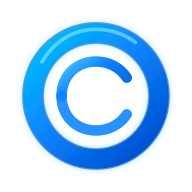
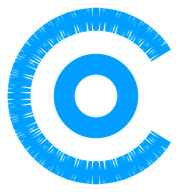
Unify Kontakti brand mark and prepare custom domain

diff --git a/cloud-ui-v12.html b/cloud-ui-v12.html
@@ -306,13 +306,13 @@ body.booting>*:not(#splash){visibility:hidden}
 <div class="login-page" id="splash">
  <main class="login-layout">
   <section class="login-hero" aria-labelledby="loginHeroTitle">
-   <div class="login-hero-brand"><img src="./assets/kontakti-mark.svg" alt=""><div><strong>Kontakti</strong><span>by Opero</span></div></div>
+   <div class="login-hero-brand"><img src="./assets/kontakti-mark.svg?v=20261015d" alt=""><div><strong>Kontakti</strong><span>by Opero</span></div></div>
    <h1 id="loginHeroTitle"><span data-login-i18n="heroTitle">Asiakkaat lähellä,</span><span data-login-i18n="heroSubtitle">seuraava yhteys selvillä.</span></h1>
    <p class="login-intro" data-login-i18n="intro">Asiakkaat, yhteydenotot ja seuraavat askeleet yhdessä paikassa.</p>
    <ul class="login-features"><li><span class="login-feature-icon"><svg viewBox="0 0 24 24" fill="none" stroke="currentColor" stroke-width="1.7" stroke-linecap="round" stroke-linejoin="round" aria-hidden="true"><path d="M8 3 5 5c-2 4 6 12 10 10l2-3-4-2-2 2-4-4 2-2z"/></svg></span><div><strong data-login-i18n="calls">Päivän yhteydenotot</strong><small data-login-i18n="callsSub">Tiedät, kenelle soittaa seuraavaksi</small></div></li><li><span class="login-feature-icon"><svg viewBox="0 0 24 24" fill="none" stroke="currentColor" stroke-width="1.7" stroke-linecap="round" stroke-linejoin="round" aria-hidden="true"><rect x="5" y="3" width="14" height="18" rx="2"/><path d="M9 8h6M9 12h6M9 16h3"/></svg></span><div><strong data-login-i18n="customers">Asiakkuuden koko kuva</strong><small data-login-i18n="customersSub">Muistiinpanot ja historia mukana</small></div></li><li><span class="login-feature-icon"><svg viewBox="0 0 24 24" fill="none" stroke="currentColor" stroke-width="1.7" stroke-linecap="round" stroke-linejoin="round" aria-hidden="true"><rect x="3" y="5" width="18" height="16" rx="2"/><path d="M7 3v4M17 3v4M3 11h18"/></svg></span><div><strong data-login-i18n="next">Huominen jo näkyvissä</strong><small data-login-i18n="nextSub">Valmistaudu seuraavaan päivään</small></div></li><li><span class="login-feature-icon"><svg viewBox="0 0 24 24" fill="none" stroke="currentColor" stroke-width="1.7" stroke-linecap="round" stroke-linejoin="round" aria-hidden="true"><path d="M6 3h12v18l-3-2-3 2-3-2-3 2zM9 7h6M9 11h6M9 15h3"/></svg></span><div><strong data-login-i18n="expenses">Ajot ja kulut</strong><small data-login-i18n="expensesSub">Kirjaa ajot, kulut ja kuitit samalla.</small></div></li></ul>
   </section>
   <section class="login-card" aria-labelledby="loginWelcome">
-   <header class="login-brand"><img src="./assets/kontakti-mark.svg" alt="Opero"><div><strong>Kontakti</strong><span>by Opero</span></div><div class="login-languages"><button type="button" data-login-lang="fi" aria-label="Suomi" aria-pressed="true"><svg viewBox="0 0 18 11" aria-hidden="true"><path fill="#fff" d="M0 0h18v11H0z"/><path fill="#003580" d="M5 0h3v11H5zM0 4h18v3H0z"/></svg></button><button type="button" data-login-lang="en" aria-label="English" aria-pressed="false"><svg viewBox="0 0 60 30" aria-hidden="true"><clipPath id="flagUK"><path d="M0 0h60v30H0z"/></clipPath><g clip-path="url(#flagUK)"><path fill="#012169" d="M0 0h60v30H0z"/><path stroke="#fff" stroke-width="6" d="m0 0 60 30m0-30L0 30"/><path stroke="#c8102e" stroke-width="2" d="m0 0 60 30m0-30L0 30"/><path stroke="#fff" stroke-width="10" d="M30 0v30M0 15h60"/><path stroke="#c8102e" stroke-width="6" d="M30 0v30M0 15h60"/></g></svg></button></div></header>
+   <header class="login-brand"><img src="./assets/kontakti-mark.svg?v=20261015d" alt="Opero"><div><strong>Kontakti</strong><span>by Opero</span></div><div class="login-languages"><button type="button" data-login-lang="fi" aria-label="Suomi" aria-pressed="true"><svg viewBox="0 0 18 11" aria-hidden="true"><path fill="#fff" d="M0 0h18v11H0z"/><path fill="#003580" d="M5 0h3v11H5zM0 4h18v3H0z"/></svg></button><button type="button" data-login-lang="en" aria-label="English" aria-pressed="false"><svg viewBox="0 0 60 30" aria-hidden="true"><clipPath id="flagUK"><path d="M0 0h60v30H0z"/></clipPath><g clip-path="url(#flagUK)"><path fill="#012169" d="M0 0h60v30H0z"/><path stroke="#fff" stroke-width="6" d="m0 0 60 30m0-30L0 30"/><path stroke="#c8102e" stroke-width="2" d="m0 0 60 30m0-30L0 30"/><path stroke="#fff" stroke-width="10" d="M30 0v30M0 15h60"/><path stroke="#c8102e" stroke-width="6" d="M30 0v30M0 15h60"/></g></svg></button></div></header>
    <div class="login-welcome"><h2 id="loginWelcome" data-login-i18n="welcome">Tervetuloa takaisin</h2><p data-login-i18n="welcomeSub">Kirjaudu jatkaaksesi Kontaktiin.</p></div>
    <form id="loginForm" hidden>
     <label for="loginEmail" data-login-i18n="email">Sähköposti</label><input id="loginEmail" name="email" type="email" autocomplete="username" required>
